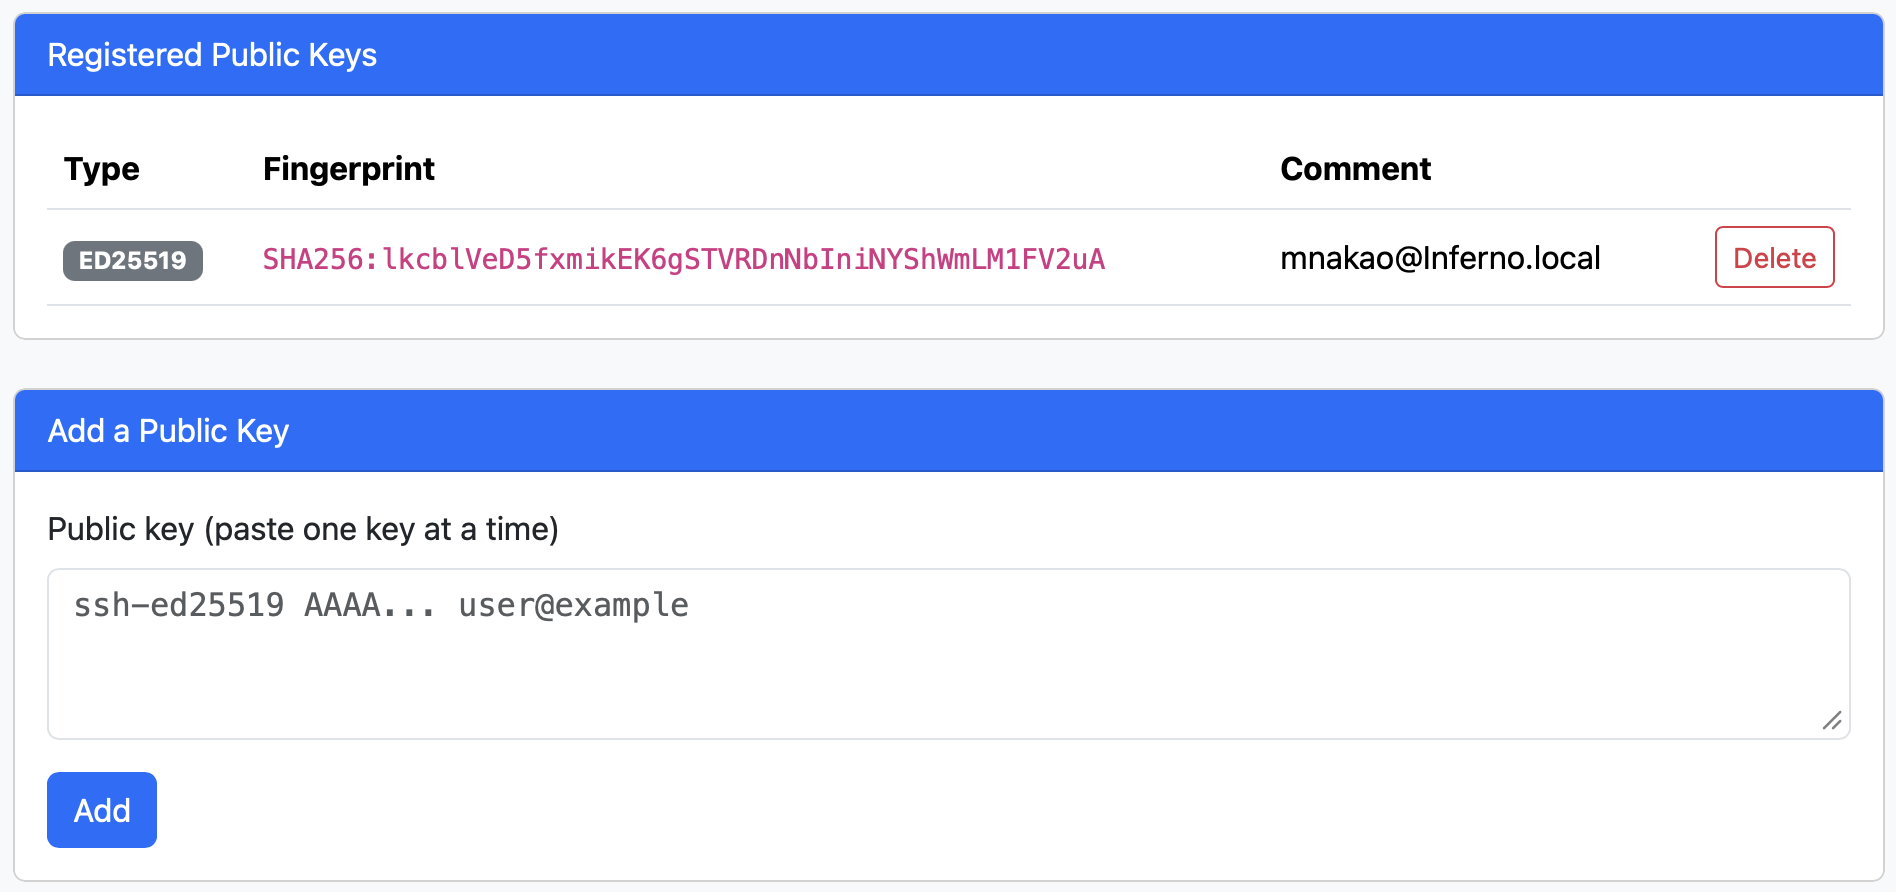
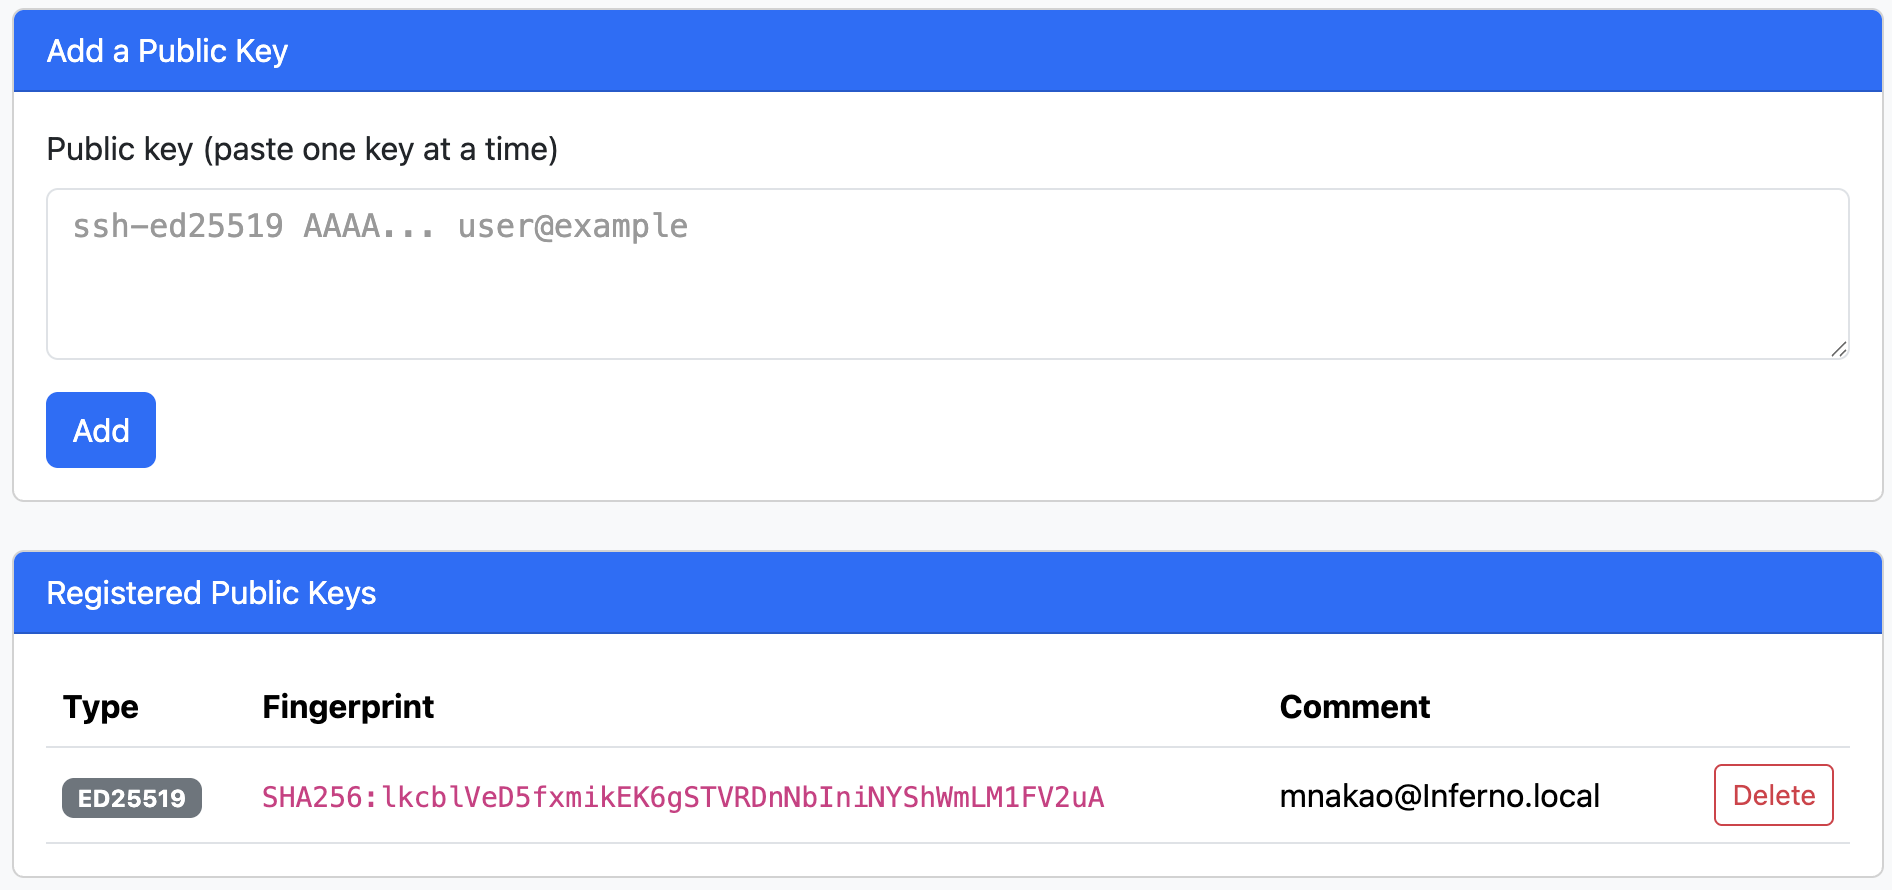
Update Japanese module and usage docs

diff --git a/rikyu/docs/stylesheets/extra.css b/rikyu/docs/stylesheets/extra.css
@@ -88,7 +88,8 @@
 
 .md-typeset h3 {
   border-bottom: 2px solid var(--md-accent-fg-color);
-  padding-bottom: 0.2em;
+  padding-bottom: 0.1em;
+  margin-top: 0.8em;
   margin-bottom: 0.5em;
 }
 
@@ -242,6 +243,25 @@
 
 .md-nav--secondary .md-nav__link {
   font-size: 0.7rem;
+}
+
+.md-nav code {
+  font-family: "JetBrains Mono", "SFMono-Regular", Consolas, Menlo, monospace;
+  font-size: inherit;
+}
+
+.md-nav :not(pre) > code {
+  background: transparent;
+  border-radius: 0;
+  box-shadow: none;
+  color: rgb(20, 40, 255);
+  font-weight: 700;
+  margin: 0;
+  padding: 0;
+}
+
+[data-md-color-scheme="slate"] .md-nav :not(pre) > code {
+  color: rgb(234, 128, 252);
 }
 
 [dir="ltr"] .md-nav--integrated > .md-nav__list > .md-nav__item--active .md-nav--secondary {

diff --git a/rikyu/docs/ja/module.md b/rikyu/docs/ja/module.md
@@ -1,0 +1,136 @@
+# モジュール環境
+
+本システムでは、NVIDIA HPC Software Development Kitを利用した次の開発環境をモジュールとして提供しています。
+
+| モジュール名   | 説明                                     |
+| -------------- | ---------------------------------------- |
+| `nvhpc`        | MPIを含む標準的なNVIDIA HPC SDK環境です。|
+| `nvhpc-nompi`  | MPIを含まないNVIDIA HPC SDK環境です。別のMPIを自分で用意して使用する場合に使います。 |
+| `nvhpc-hpcx`   | `nvhpc`にHPC-Xを組み合わせた環境です。InfiniBand/RDMA環境でHPC-XのMPIを使う場合に適しています。 |
+| `nvhpc-hpcx-cuda13` | `nvhpc-hpcx`と同様にHPC-Xを含みますが、使用するCUDAバージョンがCUDA 13に固定されています。|
+| `nvhpc-byo-compiler` | システムのGCCなど、利用者が用意したコンパイラを使うための環境です。BYOは“Bring Your Own”の略です。|
+
+## `module`コマンド
+`module`コマンドにより、必要な環境設定を動的に切り替えて利用できます。主な`module`コマンドは次のとおりです。
+
+| コマンド | 説明 |
+| -------- | ---- |
+| `module avail`           | 利用可能なモジュールの一覧表示 |
+| `module list`            | ロード済みのモジュールの一覧表示 |
+| `module load [module]`   | `[module]`をロード |
+| `module unload [module]` | `[module]`をアンロード |
+| `module purge`           | 全てのモジュールをアンロード |
+| `module show [module]`   | `[module]`の設定内容を表示 |
+
+## コマンドの使用例
+### `module avail`
+
+利用可能なモジュールの一覧を表示します。
+
+```bash
+$ module avail
+------------------------ /shared/software/modulefiles ------------------------
+   nvhpc-byo-compiler/26.3    nvhpc-hpcx-cuda13/26.3    nvhpc-hpcx/26.3
+   nvhpc-nompi/26.3    nvhpc/26.3
+
+------------------------ /usr/share/lmod/lmod/modulefiles --------------------
+   Core/lmod    Core/settarg (D)
+
+  Where:
+   D:  Default Module
+
+If the avail list is too long consider trying:
+
+"module --default avail" or "ml -d av" to just list the default modules.
+"module overview" or "ml ov" to display the number of modules for each name.
+
+Use "module spider" to find all possible modules and extensions.
+Use "module keyword key1 key2 ..." to search for all possible modules matching any of the "keys".
+```
+
+### `module list`
+
+ロード済みのモジュールの一覧を表示します。
+
+```bash
+$ module list
+
+Currently Loaded Modules:
+  1) nvhpc/26.3
+```
+
+### `module load`
+
+利用したいモジュールをロードします。
+
+```bash
+$ module load nvhpc
+```
+
+### `module unload`
+
+ロード済のモジュールをアンロードします。
+
+```bash
+$ module unload nvhpc
+```
+
+### `module purge`
+
+現在ロード済みの全てのモジュールをアンロードします。
+
+```bash
+$ module purge
+```
+
+!!! tip
+    
+    必要なモジュールをロードする前に`module purge`を実行しておくと、意図しないモジュール環境の影響を避けやすくなります。
+
+### `module show`
+
+モジュールの設定内容を表示します。
+
+```bash
+$ module show nvhpc
+---------------------------------------------------
+   /shared/software/modulefiles/nvhpc/26.3:
+---------------------------------------------------
+conflict("nvhpc")
+conflict("nvhpc-nompi")
+conflict("nvhpc-byo-compiler")
+conflict("nvhpc-hpcx")
+setenv("NVHPC","/shared/software/hpc_sdk")
+setenv("NVHPC_ROOT","/shared/software/hpc_sdk/Linux_aarch64/26.3")
+setenv("CC","/shared/software/hpc_sdk/Linux_aarch64/26.3/compilers/bin/nvc")
+setenv("CXX","/shared/software/hpc_sdk/Linux_aarch64/26.3/compilers/bin/nvc++")
+setenv("FC","/shared/software/hpc_sdk/Linux_aarch64/26.3/compilers/bin/nvfortran")
+setenv("F90","/shared/software/hpc_sdk/Linux_aarch64/26.3/compilers/bin/nvfortran")
+setenv("F77","/shared/software/hpc_sdk/Linux_aarch64/26.3/compilers/bin/nvfortran")
+setenv("CPP","cpp")
+prepend_path("PATH","/shared/software/hpc_sdk/Linux_aarch64/26.3/cuda/bin")
+prepend_path("PATH","/shared/software/hpc_sdk/Linux_aarch64/26.3/compilers/bin")
+prepend_path("PATH","/shared/software/hpc_sdk/Linux_aarch64/26.3/comm_libs/mpi/bin")
+prepend_path("PATH","/shared/software/hpc_sdk/Linux_aarch64/26.3/compilers/extras/qd/bin")
+prepend_path("LD_LIBRARY_PATH","/shared/software/hpc_sdk/Linux_aarch64/26.3/cuda/lib64")
+prepend_path("LD_LIBRARY_PATH","/shared/software/hpc_sdk/Linux_aarch64/26.3/compilers/extras/qd/lib")
+prepend_path("LD_LIBRARY_PATH","/shared/software/hpc_sdk/Linux_aarch64/26.3/compilers/lib")
+prepend_path("LD_LIBRARY_PATH","/shared/software/hpc_sdk/Linux_aarch64/26.3/math_libs/lib64")
+prepend_path("LD_LIBRARY_PATH","/shared/software/hpc_sdk/Linux_aarch64/26.3/comm_libs/nccl/lib")
+prepend_path("LD_LIBRARY_PATH","/shared/software/hpc_sdk/Linux_aarch64/26.3/comm_libs/nvshmem/lib")
+prepend_path("CPATH","/shared/software/hpc_sdk/Linux_aarch64/26.3/math_libs/include")
+prepend_path("CPATH","/shared/software/hpc_sdk/Linux_aarch64/26.3/comm_libs/nccl/include")
+prepend_path("CPATH","/shared/software/hpc_sdk/Linux_aarch64/26.3/comm_libs/nvshmem/include")
+prepend_path("CPATH","/shared/software/hpc_sdk/Linux_aarch64/26.3/compilers/extras/qd/include/qd")
+prepend_path("C_INCLUDE_PATH","/shared/software/hpc_sdk/Linux_aarch64/26.3/math_libs/include")
+prepend_path("C_INCLUDE_PATH","/shared/software/hpc_sdk/Linux_aarch64/26.3/comm_libs/nccl/include")
+prepend_path("C_INCLUDE_PATH","/shared/software/hpc_sdk/Linux_aarch64/26.3/comm_libs/nvshmem/include")
+prepend_path("C_INCLUDE_PATH","/shared/software/hpc_sdk/Linux_aarch64/26.3/compilers/extras/qd/include/qd")
+prepend_path("CPLUS_INCLUDE_PATH","/shared/software/hpc_sdk/Linux_aarch64/26.3/math_libs/include")
+prepend_path("CPLUS_INCLUDE_PATH","/shared/software/hpc_sdk/Linux_aarch64/26.3/comm_libs/nccl/include")
+prepend_path("CPLUS_INCLUDE_PATH","/shared/software/hpc_sdk/Linux_aarch64/26.3/comm_libs/nvshmem/include")
+prepend_path("CPLUS_INCLUDE_PATH","/shared/software/hpc_sdk/Linux_aarch64/26.3/compilers/extras/qd/include/qd")
+prepend_path("MANPATH","/shared/software/hpc_sdk/Linux_aarch64/26.3/compilers/man")
+setenv("OMPI_MCA_coll_hcoll_enable","0")
+setenv("OMPI_MCA_hwloc_base_binding_policy","none")
+```

diff --git a/rikyu/docs/ja/ood.md b/rikyu/docs/ja/ood.md
@@ -1,1 +1,10 @@
 # Open OnDemandの使い方
+Open OnDemandは次の機能を提供しています。
+
+* ファイルの送受信・編集
+* Webターミナルの利用
+* 対話アプリケーション（リモートデスクトップなど）の実行と管理
+* ジョブの投入と管理
+
+Open OnDemandは、Google Chrome、Mozilla Firefox、Microsoft Edgeなどの主要なWebブラウザに対応しています（注：Internet Explorer 11は対応していません）。中でもChromeは、リモートデスクトップなどにおいて、文字列のコピー & ペース\
+ト機能をネイティブにサポートしていますので、Chromeのご利用をお勧めします。

diff --git a/rikyu/docs/ja/slurm.md b/rikyu/docs/ja/slurm.md
@@ -34,7 +34,7 @@ $ squeue
 
 ### 対話セッション
 
-`salloc`を使うと、対話セッション用のリソースを確保できます。以下の例では、1GPUを10分間を要求します。出力メッセージの`2081`はジョブIDです。
+`salloc`を使うと、対話セッション用のリソースを確保できます。次の例では、1GPUを10分間を要求します。出力メッセージの`2081`はジョブIDです。
 
 ```bash
 $ salloc --gpus=1 --time=00:10:00
@@ -60,7 +60,7 @@ salloc: Relinquishing job allocation 2081
 
 ### 対話シェル
 
-`srun --pty bash`を使うと、計算ノード上で対話シェルを開始できます。以下の例では、1GPUを10分間を要求します。
+`srun --pty bash`を使うと、計算ノード上で対話シェルを開始できます。次の例では、1GPUを10分間を要求します。
 
 ```bash
 $ srun --gpus=1 --time=00:10:00 --pty bash